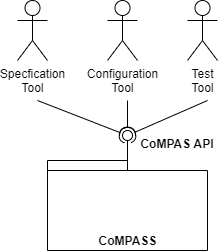
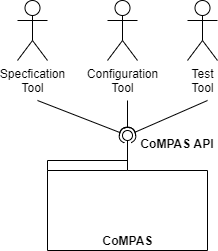
Typos, improvements

Changed region(s): [[0.4404, 0.9203, 0.7156, 0.9761]]

diff --git a/TECHNICAL_ARCHITECTURE.md b/TECHNICAL_ARCHITECTURE.md
@@ -6,15 +6,15 @@ This section describes the deployment view of CoMPAS.
 ### Building and Deployment
 ![](./functional-diagrams/deploy.png)
 
-The diagram above shows the deployment view. Blue components are within scope of the CoMPASS project.
+The diagram above shows the deployment view. Blue components are within scope of the CoMPAS project.
 
-**CoMPASS microservice**s are built from Java source code on Github (not shown) using the Gradle build proces. This results in a compiled java application. 
+**CoMPAS microservice**s are built from Java source code on Github (not shown) using the Gradle build proces. This results in a compiled java application. 
 
-The result of the CI/CD is a **Docker Image** in the Docker Registry. A **Docker Image** contains one **CoMPASS microservice**. More than one CoMPASS microservice may be present in the image only if they are closely related and should be deployed and scaled together.
+The result of the CI/CD is a **Container Image** in the Docker Registry. A **Container Image** contains one **CoMPAS microservice**. More than one CoMPAS microservice may be present in the image only if they are closely related and should be deployed and scaled together.
 
-As part of the CI/CD proces a security scan is performed on the source code. The **Docker Image**s must be signed and are the formal deliveries of the CoMPAS project.
+As part of the CI/CD proces a security scan is performed on the source code. The **Container Image**s must be signed and are the formal deliveries of the CoMPAS project.
 
-In the deployment proces the **Docker image** is deployed together with its dependencies (for example a database) in an **Application**. This deployment takes place using *Docker Compose*. For this a **docker compose yaml** file is supplied that deploys the application using Docker Compose.
+In the deployment proces the **Container image** is deployed together with its dependencies (for example a database) in an **Application**. This deployment takes place using *Docker Compose*. For this a **docker compose yaml** file is supplied that deploys the application using Docker Compose.
 
 Generally speaking, it is a good idea to deploy one thing per container. Reasons:
 * Independent scaling: APIs scale differently than databases

diff --git a/FUNCTIONAL_ARCHITECTURE.md b/FUNCTIONAL_ARCHITECTURE.md
@@ -19,7 +19,7 @@ The IEC61850 standard describes the process and tooling for substation automatio
 
 Refer to the [Glossary](GLOSSARY.md) for the abbreviations and various 61850 file types.
 
-The green indicated process are in scope for CoMPASS.
+The green indicated process are in scope for CoMPAS.
 
 ### CoMPAS architecture
 #### Context
@@ -35,6 +35,7 @@ This diagram shows the services within CoMPAS. Currently following (micro)servic
 | Service | Description |
 | --- | --- |
 | [**CIM to SSD Mapper**](CIM_61850_MAPPING.md) |  A service that maps a CIM representation of a substation to an IEC61850 System Specification Description (SSD) file |
+| **CoMPAS Configuration Manager** | Example configuration tool, as web page, based on [OpenSCD](https://github.com/openscd/open-scd). CoMPAS microservices can be used to create own configuration tooling. CoMPASS Configuration Manager serves as an example of such a tool. |
 
 _**More services to be added**_
 
